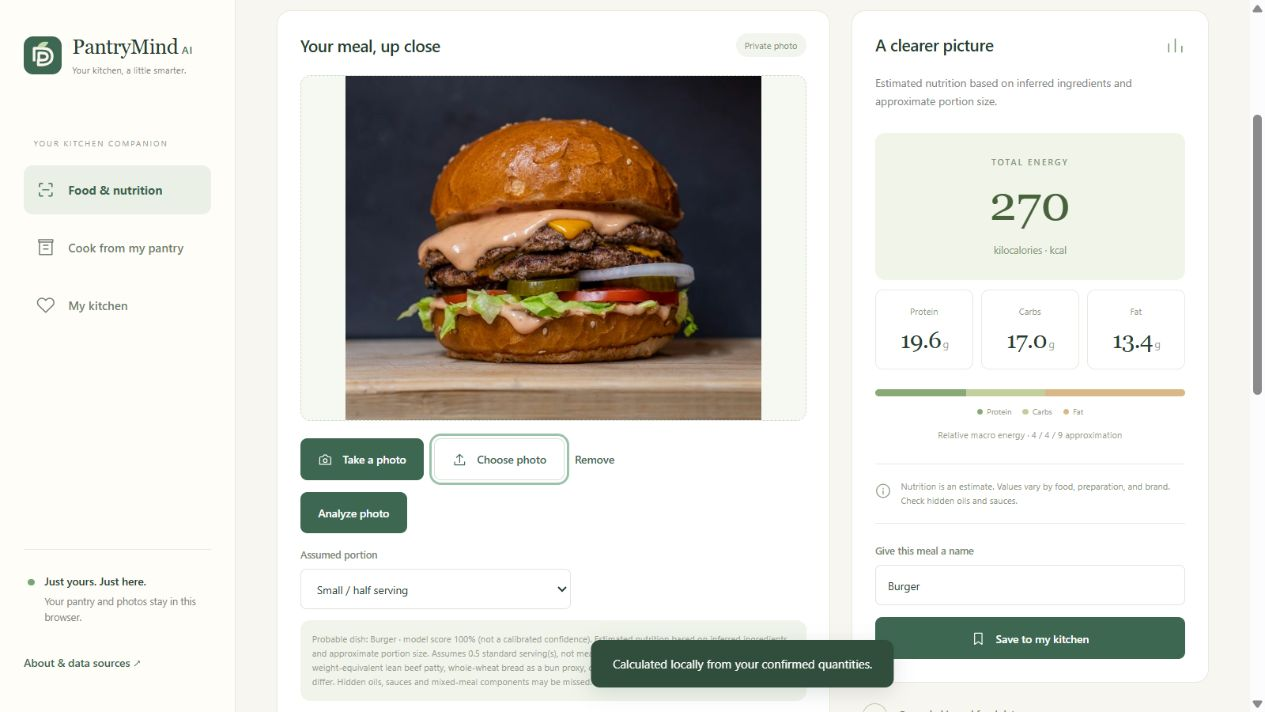
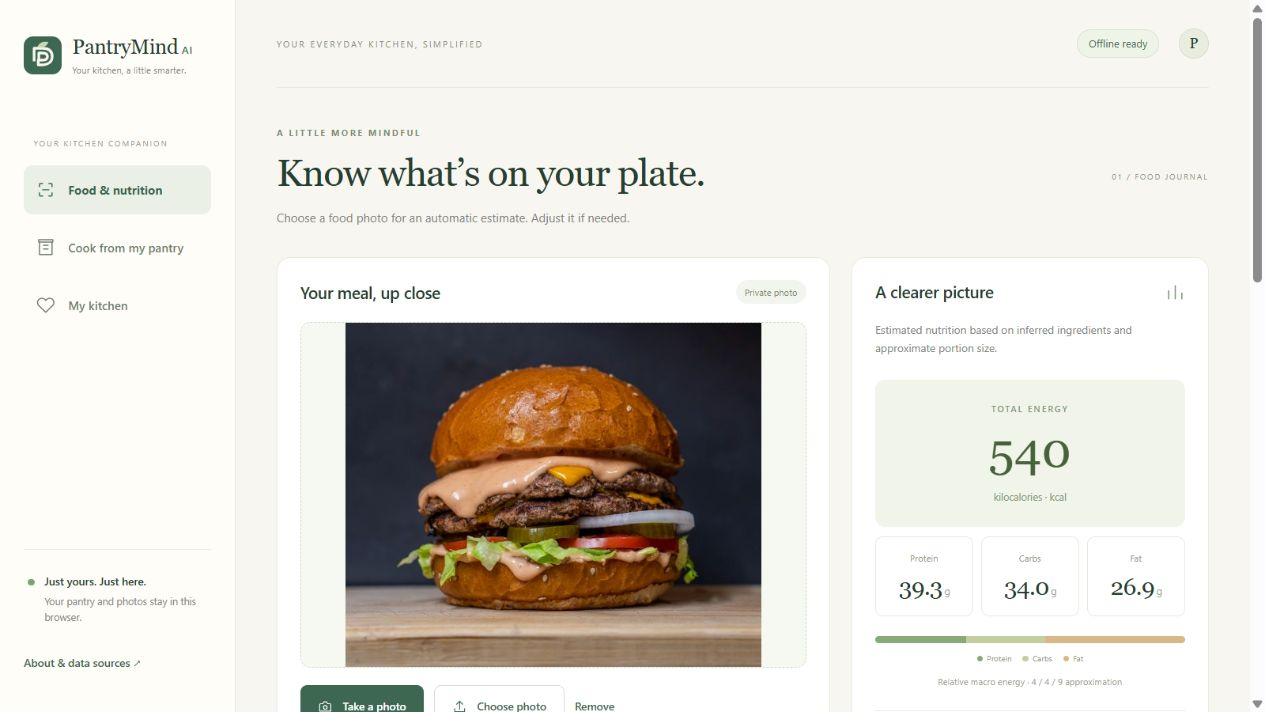
Document verified live v2 workflows and screenshots

diff --git a/VALIDATION.md b/VALIDATION.md
@@ -26,4 +26,12 @@ These are real inference calls and arithmetic estimates, not a nutrition ground-
 
 CLIP compares only bundled descriptions; it cannot measure portions, verify hidden ingredients or segment a mixed plate. Non-food and uncertainty thresholds are heuristic. Bangladeshi labels are supported candidates, without a claim of validated accuracy for every dish. First recognition needs internet and roughly 154 MB of weights plus the bundled runtime; later operation depends on browser cache retention and device memory. Manual search and deterministic nutrition remain available if inference fails. Recipe images illustrate dish families and may differ from the exact recipe. Camera capture and PWA installation on a physical phone remain unverified; no physical device is available. Local browser storage is not cloud backup.
 
-Public deployment verification and final responsive/persistence checks are recorded after publication below.
+## Verified public deployment
+
+[GitHub Actions run 37207264665](https://github.com/shihabbk18/PantryMind-AI/actions/runs/37207264665) completed successfully for application commit `38cee23097fcf95627117593cc61441626e8e34f`. Public HTTPS responses returned 200 and served the CLIP worker, diary controls and all 40 recipes at [the live site](https://shihabbk18.github.io/PantryMind-AI/).
+
+The deployed browser ran the actual burger model: 72% leading relative score and the same 540 kcal estimate. Large portion changed the estimate to 810 kcal and returning to Medium restored it. A saved Lunch entry survived reload with its photo and all four daily totals. Existing version 1 pantry records remained readable after the IndexedDB upgrade. The full catalog produced the same three names-only recommendations as local testing. Saving a favorite and adding/checking the 180 g tomato shortage both persisted after reload.
+
+At a 390 × 844 viewport, pantry and diary layouts were usable with no horizontal overflow (document width 375 px, excluding the scrollbar). Four diary totals arranged in two columns. Local diary editing changed the existing record's name/category without duplicating it; grocery checkbox state also persisted. [Desktop scanner screenshot](docs/website.png) and [mobile diary screenshot](docs/mobile-diary.png) show actual public results.
+
+The first visit after publication used the older offline cache; reloading after the new cache installed activated version 2. No physical-phone camera or installation success is claimed.

diff --git a/THIRD_PARTY_NOTICES.md b/THIRD_PARTY_NOTICES.md
@@ -39,7 +39,7 @@ Application code, icons, and original recipe templates use the root MIT LICENSE.
 
 - [Transformers.js 3.8.1](https://github.com/huggingface/transformers.js/tree/3.8.1): Apache-2.0, full license in web/vendor/TRANSFORMERS-LICENSE.
 - ONNX Runtime Web 1.22.0-dev.20250409-89f8206ba4: MIT, full license in web/vendor/ONNX-LICENSE. The matching JS/WASM binaries are bundled.
-- [CLIP ViT-B/32](https://github.com/openai/CLIP), MIT license, full text in web/vendor/CLIP-LICENSE. [Xenova browser-compatible ONNX conversion](https://huggingface.co/Xenova/clip-vit-base-patch32) revision `d15189d7028b43f1d3e65039190477f6af591c2a` is pinned. q8 text and vision weights total 153,621,508 bytes, downloaded by the browser and cached rather than committed. Model publisher examples are not an application accuracy benchmark. No OpenAI API, hosted inference or paid service is used.
+- [CLIP ViT-B/32](https://github.com/openai/CLIP), MIT license, full text in web/vendor/CLIP-LICENSE. [Xenova browser-compatible ONNX conversion](https://huggingface.co/Xenova/clip-vit-base-patch32) revision `d15189d7028b43f1d3e65039190477f6af591c2a` is pinned. The combined q8 file onnx/model_quantized.onnx is 153,695,702 bytes, downloaded by the browser and cached rather than committed. Model publisher examples are not an application accuracy benchmark. No OpenAI API, hosted inference or paid service is used.
 
 Ingredient/portion heuristics and recipe assumptions are original project code/data and are not measurements produced by the classifier.
 

diff --git a/README.md b/README.md
@@ -6,6 +6,8 @@
 
 ![PantryMind automatic photo estimate](docs/website.png)
 
+[View the mobile Food Diary screenshot](docs/mobile-diary.png).
+
 ## Features
 
 - Select a meal photograph or use a supported mobile browser's camera picker. Photos stay on your device.
